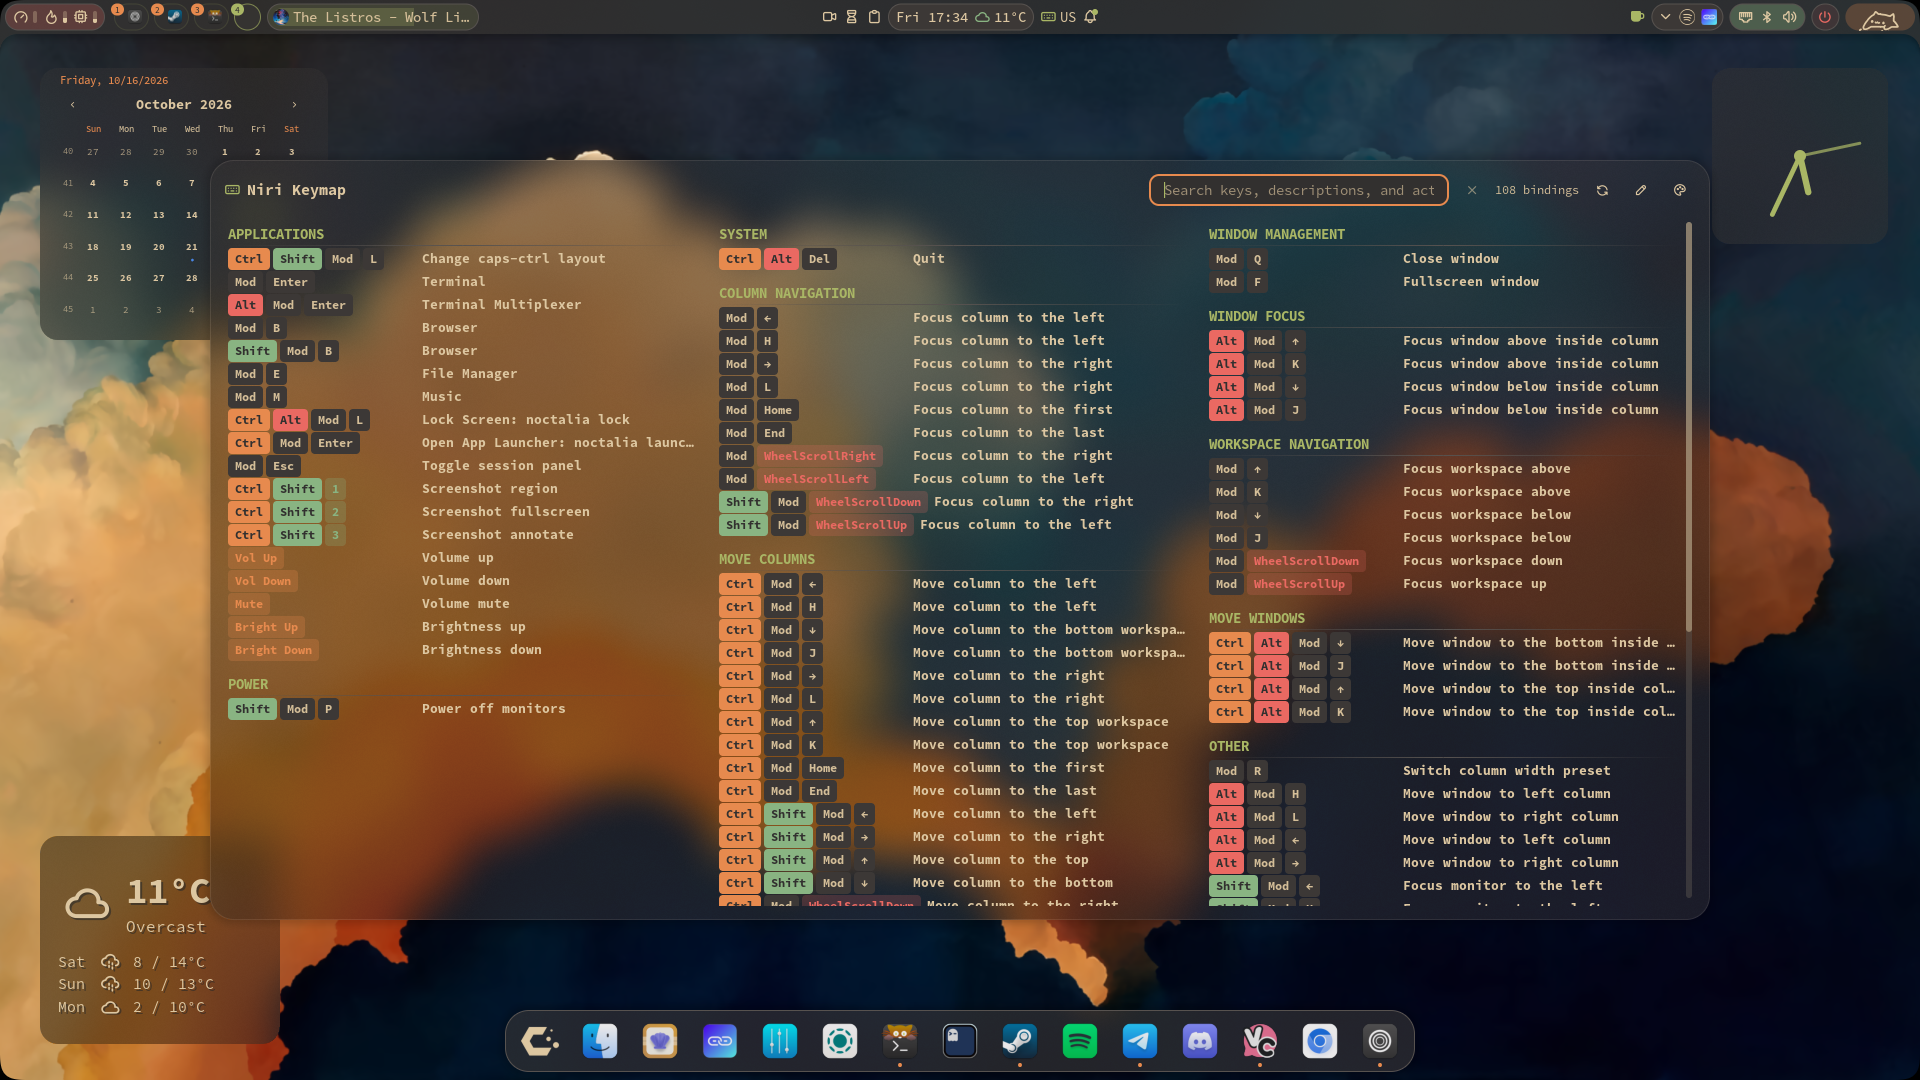
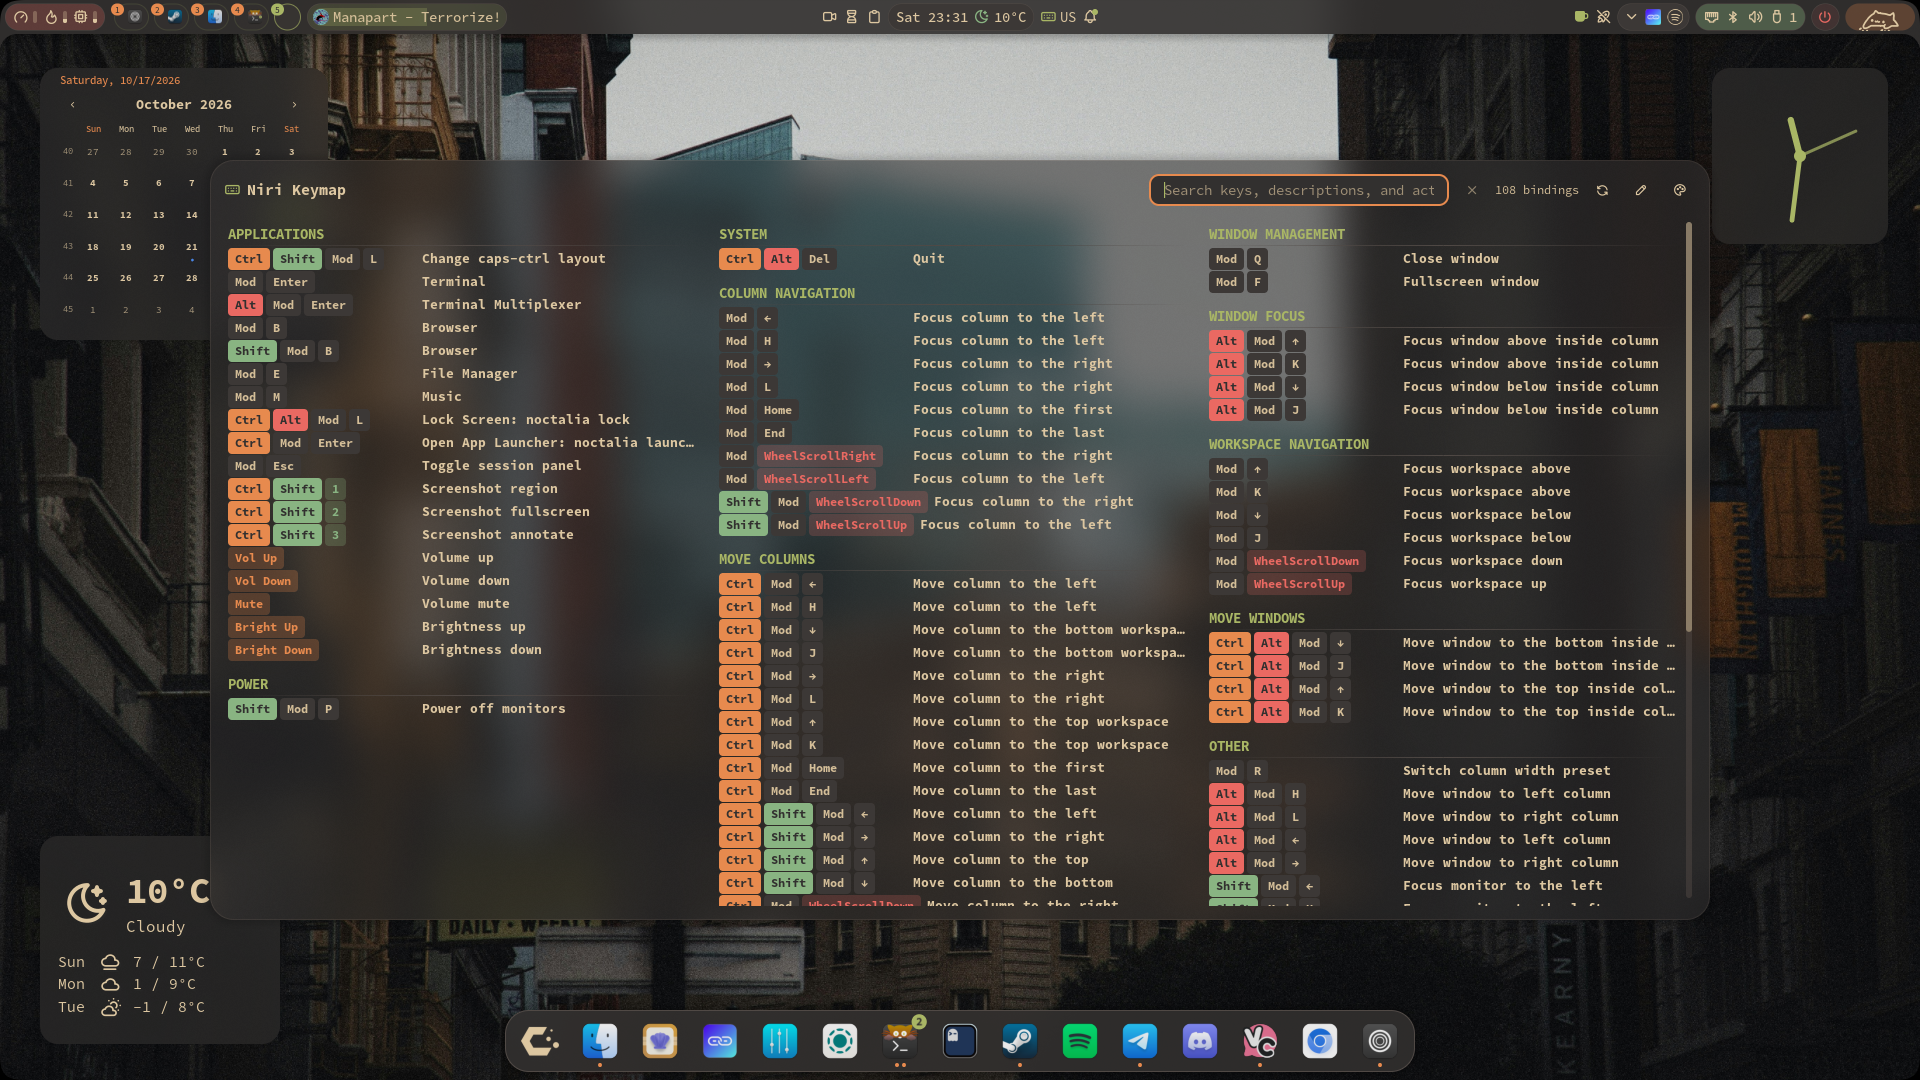
docs: rename bash-scripts to install-scripts, refresh showcase screenshots
README: point clone/update instructions, Config Manager description and
Related repositories at install-scripts.

Showcase: replace all five screenshots with the ones taken on the
nyc.jpg wallpaper.

diff --git a/README.md b/README.md
@@ -31,13 +31,13 @@ stack is the baseline: Niri as the compositor, Noctalia as the shell
 > The install script does all of it, in the right order:
 >
 > ```sh
-> git clone https://github.com/the-simen/bash-scripts/ ~/bash-scripts/ \
->   && sudo chmod +x ~/bash-scripts/cachyos/install.sh \
->   && ~/bash-scripts/cachyos/install.sh
+> git clone https://github.com/the-simen/install-scripts/ ~/install-scripts/ \
+>   && sudo chmod +x ~/install-scripts/cachyos/install.sh \
+>   && ~/install-scripts/cachyos/install.sh
 > ```
 >
-> Source: https://github.com/the-simen/bash-scripts (`cachyos/install.sh`).
-> Update later with `cd ~/bash-scripts && git pull` + `cachyos/update.sh`
+> Source: https://github.com/the-simen/install-scripts (`cachyos/install.sh`).
+> Update later with `cd ~/install-scripts && git pull` + `cachyos/update.sh`
 > (pulls `~/.config` and `~/.config/nvim`, stashing local changes first).
 >
 > What `install.sh` does for this repo:
@@ -66,15 +66,15 @@ Prefer clicks over the terminal? Launch **Config Manager** from the app
 menu (`applications/config-manager.desktop`, opens in its own kitty
 window with an 800×600 floating rule):
 
-- on start it clones `~/bash-scripts` if missing, otherwise pulls updates;
+- on start it clones `~/install-scripts` if missing, otherwise pulls updates;
 - paints its own `dialog` UI in the live Noctalia palette
   (`scripts/generate-dialogrc.py` quantizes `noctalia/colors.json`
   into `dialog/noctalia` on every launch);
 - shows repo status right in the main menu: last commits of
-  `bash-scripts`, `cachy-config`, `nvim`, upstream behind/ahead,
+  `install-scripts`, `cachy-config`, `nvim`, upstream behind/ahead,
   local changes;
 - menu items:
-  - **Reinstall** — force-resets `bash-scripts`, `cachy-config` and
+  - **Reinstall** — force-resets `install-scripts`, `cachy-config` and
     `nvim` to the latest GitHub commits (`fetch` + `reset --hard` +
     `clean -fd`). Warns first: all local changes and new files are
     lost, no backup is made;
@@ -249,4 +249,4 @@ re-includes only curated paths. Consequences worth knowing:
 ## Related repositories
 
 - Neovim (kept separately): https://github.com/the-simen/nvchad-configs
-- Install-everything script: https://github.com/the-simen/bash-scripts
+- Install-everything script: https://github.com/the-simen/install-scripts
